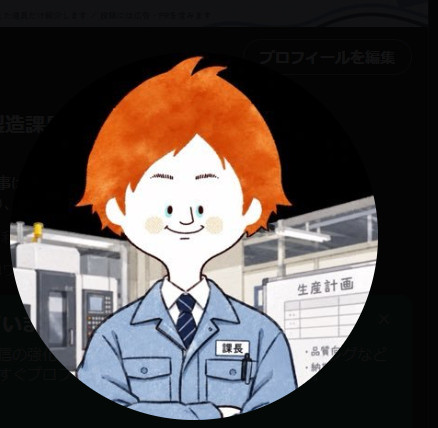
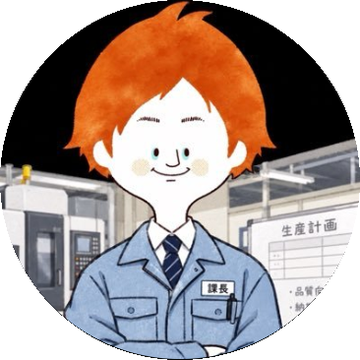
キャラ画像をアイコンから切り出して差し替え、ページに画像コピーボタンを追加
Claude-Session: https://claude.ai/code/session_0184bhAkYrk7XGckhKkxS3Rr

diff --git a/app/index.html b/app/index.html
@@ -127,6 +127,13 @@ async function delGroup(date,slot){
     toast('削除しました')
   }catch(e){toast('削除できませんでした')}
 }
+async function copyImage(){
+  try{
+    const b=await (await fetch('character_ref.png')).blob();
+    await navigator.clipboard.write([new ClipboardItem({'image/png':b})]);
+    toast('キャラ画像をコピーした。ChatGPTで貼り付けてね');
+  }catch(e){toast('コピーできなかった。横の画像を長押ししてコピーしてね')}
+}
 async function saveUrl(d,url){try{await ref(d).update({url});toast('保存しました')}catch(e){toast('保存できませんでした')}}
 function slotView(day,slot,items){
   const picked=items.find(i=>i.status&&i.status!=='candidate');
